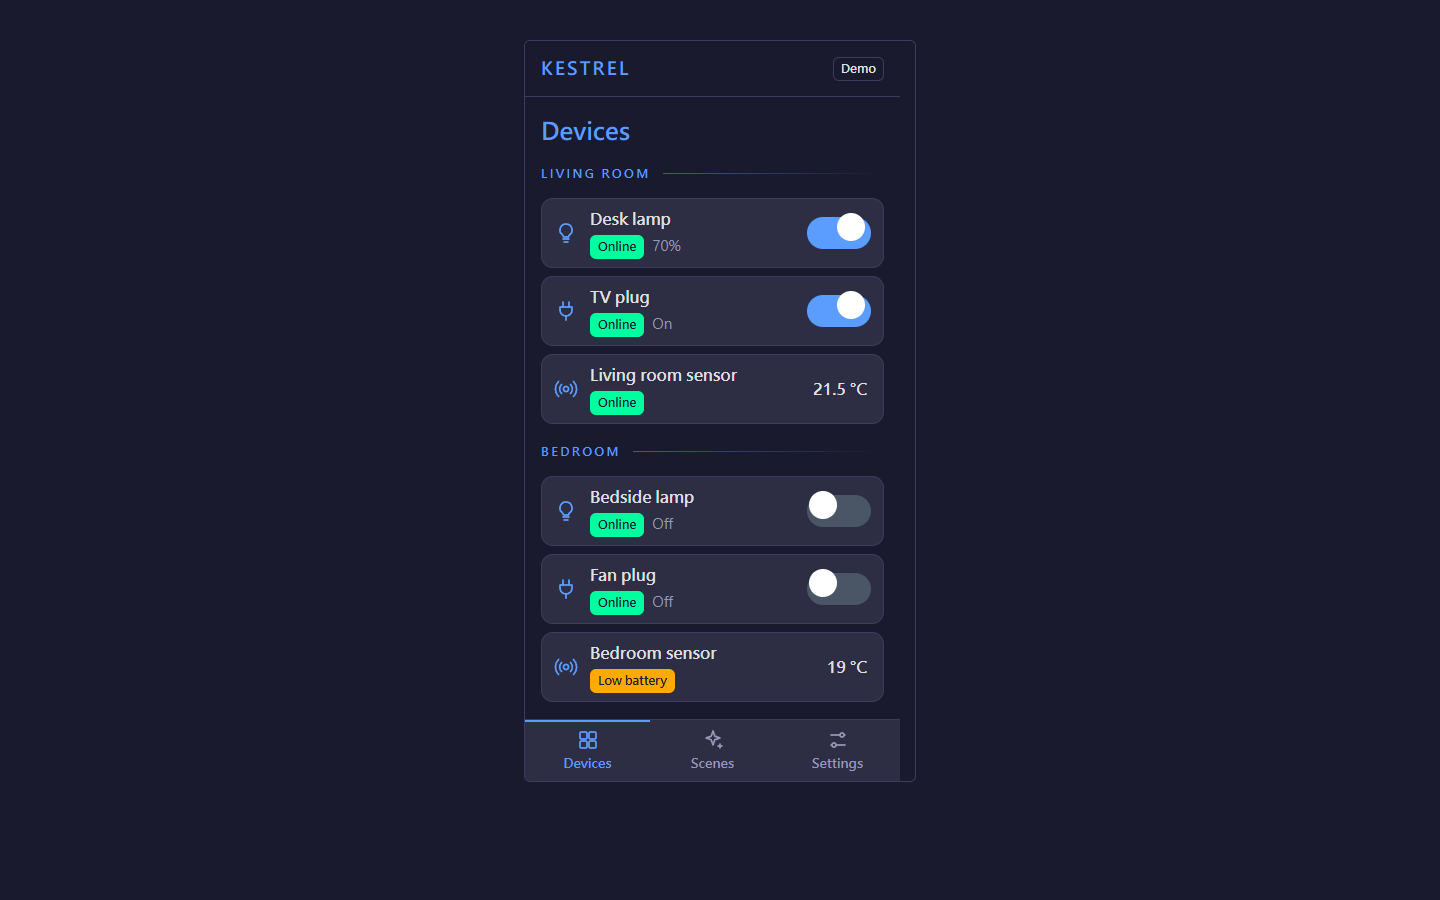
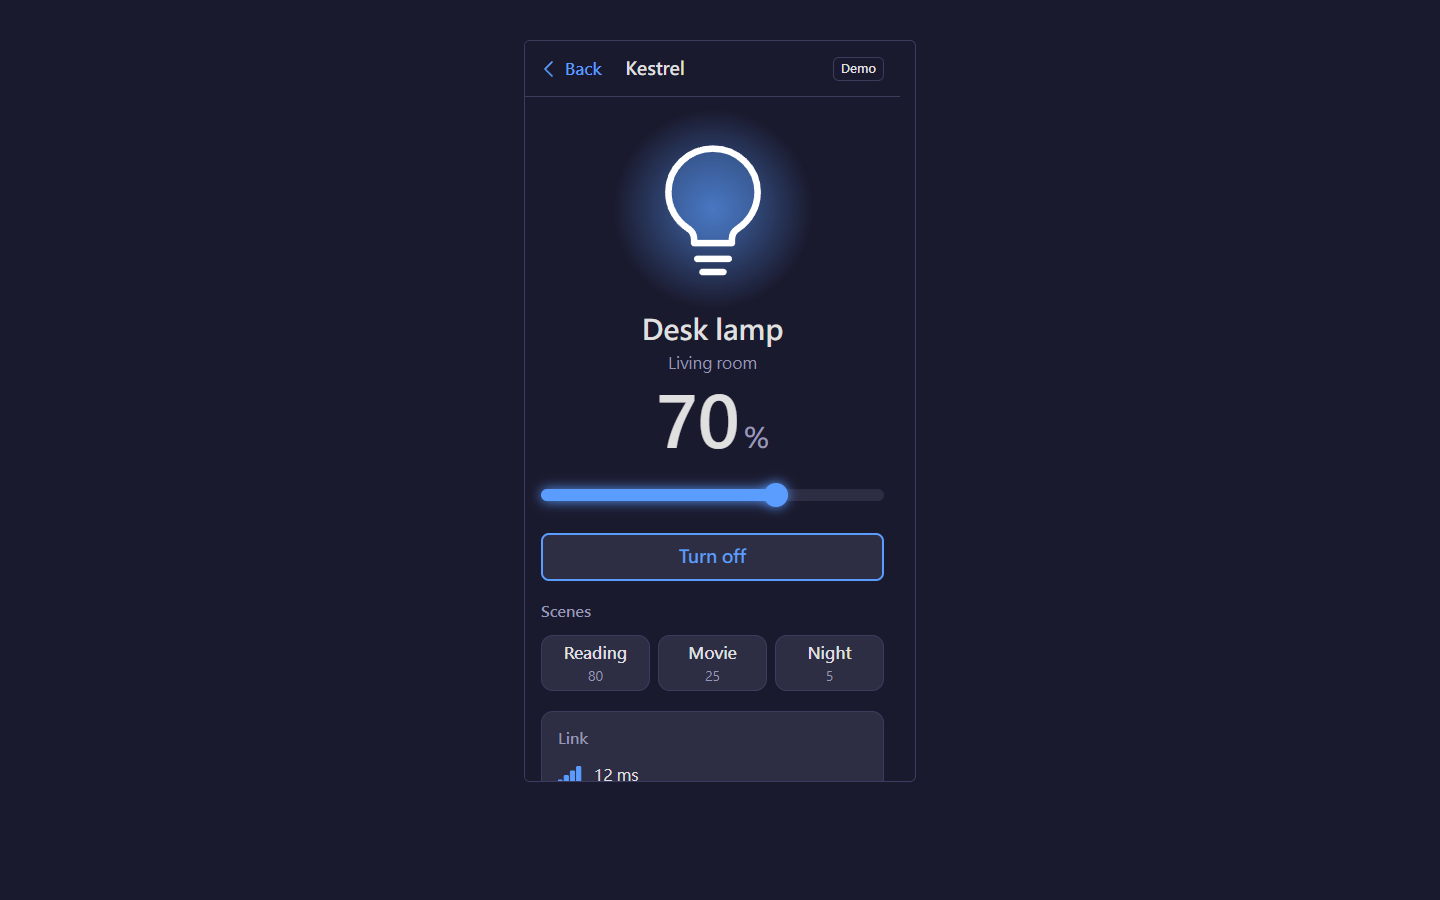
feat(site): the Mobile App's new tagline and copy, a new screenshot, and two new examples for the redesigned app

diff --git a/packages/site/src/content/templateContent.ts b/packages/site/src/content/templateContent.ts
@@ -156,41 +156,41 @@ export const TEMPLATE_CONTENT: Record<string, TemplateContent> = {
     useIf: [
       'a small control app people will use on their phone',
       'the front end of an app you will later connect to real devices or a backend',
-      'something with a list, switches, a form and a few settings',
+      'something with rooms, things you switch and dim, a connect flow and a few settings',
     ],
     headsUp:
       'This is a demo: the home and its devices are made up, and nothing is controlled or sent. You get the screens, not the hub. Your AI can help you connect yours.',
-    notFor: "if you need to talk to real devices or install it on a phone. The devices are made up, and it's a web page with no saved data.",
+    notFor: "if you need to find or talk to real devices, or install it on a phone. The devices and the scan are made up, and it's a web page with no saved data.",
     examples: [
       {
         title: 'A home-lab hobbyist',
         requests: [
-          'I just forked the Mobile App template (Kestrel, the home device controller). Before I change anything: get it running with npm and tell me how to open it on my phone over my home wifi, not just on my laptop. Also tell me plainly which parts are fake in this demo and which parts are real UI I can keep.',
-          "Replace the made-up devices with mine. I have 4 smart plugs (Shelly and Tasmota, I'll give you IPs) and a Raspberry Pi running a few services. Rename the devices, drop the ones I don't have, and change the scenes to things like 'Desk off', 'Everything off at night' and 'Lab on'. Keep the look and keep the switch on each row.",
-          "Now make the switches actually do something. When I flip a plug's switch it should call my plug (Tasmota has a plain HTTP command, Shelly has a local HTTP API). It should show the real on/off state when the app loads. If the plug doesn't answer, the switch should go back and show an error instead of pretending it worked.",
-          "The Add device form and the Settings screen currently don't save anything. Make Add device save to something that survives a reload (localStorage is fine for now), and make Settings remember my choices. If it's better to keep this on the Pi so my phone and laptop agree, tell me before you do it.",
-          "I want to run this on the Pi so I can open it from my phone any time, ideally as an icon on my home screen. Build it for production, serve it from the Pi, and walk me through starting it on boot. Tell me if I need to put any passwords or tokens somewhere and where they should go so they don't end up in the code.",
-          'Last thing: scenes. Make the one-tap scenes really switch the right group of plugs, and show me which ones worked and which failed.',
+          'I just forked this Mobile App template. Get it running locally and tell me the one command to start it. Then open README and the source and tell me plainly: which parts are real and which are made up? I want to turn this into a controller for my own stuff, so I need to know where the fake data lives.',
+          "I have 4 smart plugs at home plus a Raspberry Pi and a NAS that I want to power-cycle. The plugs are Shelly Plug S units on my LAN, and I also run Home Assistant. Replace the made-up Kestrel hub data with a small data layer I can swap out. Start with one adapter that talks to Home Assistant's REST API using a long-lived token I put in an env file, and keep the fake data as a fallback so the demo still works without a token. Don't touch the visuals yet.",
+          'Now make the on/off icon on Home actually call the plugs. It should flip right away on screen, then roll back and show an error if the call fails. Also make the page for each device show what the plug really reports (on or off, and power in watts if it has a meter) instead of the made-up signal figure. If a plug has no signal reading, hide that row rather than showing a fake number.',
+          "Take the light-only stuff out. I have no dimmers or thermostats. Remove the brightness slider, the three scenes and the target temperature, and keep Turn on / Turn off, power draw and a Remove button. Also rename 'Kestrel' to something of mine, and make the rooms be the ones I define in a config file: Rack, Office, Living room. The room power figure should be the sum of the watts of the plugs in it.",
+          "The 'add a device' scan flow can't really discover anything from a browser, right? Replace it with a simple form: pick an entity from the list Home Assistant gives you, give it a name, choose a room. Make Disconnect and Reconnect do something honest, or remove them if they can't. And save my rooms and names so they survive a reload.",
+          "Last thing: I want to open this on my phone while I'm on my home wifi. Tell me how to serve it on my LAN, how to add it to my home screen, and what I should NOT do with the token (I don't want it sitting in the JavaScript bundle that my phone downloads).",
         ],
         stuck:
-          "Message 3, the real wall: a web page running in my phone's browser can't just call a plug on my LAN the way I imagine. Browser security rules (CORS, and an https page blocking plain http calls) would make the calls fail, and the error message would be useless to me. I'd probably need a tiny proxy or server on the Pi … Message 3 again: Tasmota and Shelly differ, and some of my plugs may be cloud-only or need a password. I'd get stuck on where to put credentials and would be tempted to paste them in the chat or the source. … Message 5: Home-screen install and https. On my phone, \"add to home screen\" may just make a bookmark, and some phone features need https, which a Pi on my LAN doesn't have. I'd also get lost in the systemd/pm2 part.",
+          "The token. A Vite/React app puts anything in an env file into the browser bundle, so my Home Assistant token would end up on my phone and in the page source. I would not realise that until my AI warned me. I'd then need a tiny proxy on the Pi, and that is a second project. … Browser rules. If I serve the page over HTTPS, the browser may block calls to my plain-http plugs and Home Assistant (mixed content), and calling Home Assistant from another origin needs CORS set up on its side. I would lose an evening to errors that say nothing useful on a phone. … Keeping it up to date. The page only knows a plug's state when it was last asked, so if someone flips the plug at the wall, my phone shows the old state. I'd need polling or a live connection and I wouldn't know to ask for it. … Hosting it on the Pi and getting the \"add to home screen\" icon and full-screen look right. …",
         worked:
-          'I open the app on my phone over wifi, with the laptop closed, and it loads. … I tap the switch for my desk lamp plug and the lamp physically turns off, within a second or two. … I unplug a plug on purpose, flip its switch, and the app shows an error and goes back, instead of lying. … I restart the Pi and the app comes back on its own. …',
+          "I tap the icon on my phone … and I hear the relay click and see the lamp or fan on that plug go off. The icon only changes after the plug has really changed, or it rolls back with an error if I unplug the plug first. … I flip the plug at the wall (or from the Shelly app), and within a few seconds my phone shows the new state without me reloading. … The watts figure on a device page matches what the Shelly app shows for the same plug, and the Rack room total equals the plugs added up by hand. … I reload the page and my rooms, names and added devices are still there. … I unplug a plug on purpose and the app shows that plug as unreachable rather than still showing \"on\". … I open the page source on my phone's browser and search for my token. If it's not there, I'm happy. …",
       },
       {
         title: 'A designer',
         requests: [
-          "I just downloaded this template folder. I'm a designer, not an engineer. Please install whatever it needs and start it, then tell me exactly how to open it on my iPhone while I'm on the same wifi. Pretend I've never used a terminal.",
-          "Okay, it runs. It's a demo app called Kestrel. My client makes smart heating, not lights, so I need to rename it. Call the app 'Hearth' and change the device list to: Living room thermostat, Bedroom thermostat, Boiler, Hot water, Front door sensor. Rename the scenes to Morning, Away, Night. Keep it obviously fake data, I'm not claiming it controls anything. Show me which files you touched.",
-          "Now the look. The client's brand is a warm off-white background with a deep green and an orange accent, rounded and friendly, nothing cyberpunk. Can you change the colours, fonts and the glow/neon effects so it matches? Here are my hex values: #F5F1E8, #1F4D3A, #E8742A. Tell me where the colours live so I can tweak them myself later.",
-          'When I tap a thermostat, the bottom sheet should have a temperature control: big number, plus and minus buttons, and a mode picker (Heat, Eco, Off). Right now it has whatever the lights had. Please change that sheet for thermostats only and keep the on/off switch on the other rows.',
-          "On the Add device form, when I fill it in and press the button, I want the new device to actually show up in the list so the client sees it work. It's fine if it disappears when I refresh. Just make it clear in the UI, subtly, that it's a prototype.",
-          "Last thing: I need to send the client a link they can open on their own phone, without me running anything on my laptop. Put it online somewhere free and give me the link. Check it works at phone width and that refreshing a page doesn't break it.",
+          "I just downloaded this template, it's a phone-style web app called Kestrel. Please get it running on my machine and tell me the address to open. Then, in plain words and no code, list every screen it has and how you get from one to the next (Home, a device page, Rooms, adding a device, Settings). I want to check you and I are looking at the same app before I change anything.",
+          "My client's brand is Lumen, not Kestrel. Rename the app and the hub everywhere a person would see it. Then change the rooms to Living room, Kitchen, Studio and Bedroom. In each room put the devices I give you: Living room has a ceiling light and a thermostat, Kitchen has two lights and a smart plug, Studio has a desk lamp, Bedroom has a light and a blind. Keep the power figures on the Rooms screen looking sensible for those devices. Tell me which of these are made-up numbers and where they live, so I know where to edit them later.",
+          "On Home, the one sentence about how the home is doing: I want it to say something different depending on what's happening. For example 'Everything is calm' when it's all normal, and something else when a device is disconnected or when every light is off. Also show me what Home looks like when a room has no devices at all, I want an empty state with a friendly line. And make one device in the Kitchen show as disconnected, so I can show that state to the client.",
+          "On the light page, rename the three one-tap scenes to Reading, Movie and Night, and make Night dim the light to about 10 percent. I want the brightness slider to visibly move when I tap a scene. On the thermostat, I'd like the target to stop at 16 and 28 so the plus and minus can't run off into silly numbers.",
+          "Now the add-a-device flow. Change the scan so it finds a smart plug, a blind and a speaker, in that order, and make the 'name your device' step suggest a name based on what was picked, and a room to put it in. After I finish, the new device should show up on Home in that room. If that isn't possible in a demo, tell me honestly what it does instead.",
+          "Last thing, the look. The client's colour is a teal, about #1FB5A8. Make the glowing icons and the accents use that instead of whatever they use now, but keep the dark cyberpunk feel. Then give me a short list in plain words of everything you changed in this whole session, grouped by screen, and anything you decided without asking me.",
         ],
         stuck:
-          "Then the phone: a localhost address won't open on my phone, and I won't know why. I'd need the AI to hand me an address with numbers in it, and I'd be unsure whether my laptop's firewall or the office wifi is blocking it. That could eat the whole afternoon before a meeting. … Message 6: \"put it online\" means accounts, logins, and maybe an extra step the AI can't do for me. And a deployed site may break on a sub-path, or show a blank page. I wouldn't be able to debug that. I'd also worry about whether the link is public to everybody.",
+          "Showing it to the client. It runs on my laptop. The client will want it on their phone. I'd have to ask how to put it somewhere with a link, and I would not know what to call that.",
         worked:
-          "I open it on my own phone, in the real browser, with wifi on, and I can tap through every screen without pinching or sideways scrolling: device list, switch on a row, the sheet sliding up, scenes, the add form, settings. … The thermostat sheet shows the temperature and changing it changes the number on the screen. The add form puts a new device in the list. … The deployed link opens on a different phone (my partner's, off my wifi, not my laptop), and refreshing keeps me on the same screen instead of a 404. … Last check: I turn my laptop off, open the link on my phone over mobile data, and it still works. Then I'm ready for the meeting.",
+          "I open it in a phone-sized window and tap through every screen on my list from message 1. Each screen is there and each one looks like it belongs to Lumen, with no leftover Kestrel anywhere, including in Settings and the page title. … I can walk the whole story with my finger: Home, switch a light off with its icon, open the light page, tap Night, see the slider drop, go back, see the Home sentence change. If I can do that without the AI's help, it works. … I check the states I asked for, one by one: the disconnected kitchen device, the empty room, the thermostat stopping at 16 and 28, the scan finding the three devices in my order. … I look at it next to my own design file and the teal matches in the places I care about. … I read the AI's closing list and it matches what I see. If it tells me something changed and I can't find it on screen, or I find a change it never mentioned, I don't trust it and I go back. … Last, I send the link to my own phone and open it there. If it works there, I'm ready for the client …",
       },
     ],
   },

diff --git a/packages/site/src/content/templateContent.test.ts b/packages/site/src/content/templateContent.test.ts
@@ -43,7 +43,7 @@ describe('template content', () => {
     expect(content.useIf).toHaveLength(3);
     expect(content.headsUp).toMatch(/nothing is controlled or sent/);
     expect(content.headsUp).toMatch(/screens, not the hub/);
-    expect(content.examples.map((example) => example.title)).toEqual(['A home-lab hobbyist', 'A designer']);
+    expect(content.examples).toHaveLength(2);
     for (const example of content.examples) {
       expect(example.requests.length, example.title).toBeGreaterThanOrEqual(4);
       expect(example.requests.length, example.title).toBeLessThanOrEqual(6);
@@ -51,11 +51,30 @@ describe('template content', () => {
     }
   });
 
+  // The first version of the Mobile App had a bottom sheet, a pairing form and a Scenes tab. The
+  // two examples written for it said so, and the redesign has none of them: copy that still mentions
+  // them is stale. (The redesigned app does have scenes, but as the three one-tap presets on a
+  // light's own page, and the interview brief says so, so a person who asks to rename "the three
+  // one-tap scenes" on "the light page" is describing the redesigned app: "scenes" and "one-tap
+  // scenes" are not on this list. The tagline test above does reject "one-tap scenes", because
+  // in the tagline it was the first version's feature list.)
+  it('describes the redesigned mobile app everywhere, not the first one', () => {
+    const content = TEMPLATE_CONTENT['mobile-app']!;
+    const words = [...content.useIf, content.headsUp, content.notFor ?? '', ...content.examples.flatMap((e) => [e.title, ...e.requests, e.stuck, e.worked])].join('\n');
+    expect(words).not.toMatch(/bottom sheet|pairing form|Scenes tab|Add device form/i);
+  });
+
+  it("keeps the mobile app's examples to the owner's rules: no remark about the template or the demo in where they would get stuck, and labels that say they", () => {
+    for (const example of TEMPLATE_CONTENT['mobile-app']!.examples) {
+      expect(example.stuck, example.title).not.toMatch(/\b(the template|the demo|this template|the README|it is (all )?fake|it'?s (all )?fake|pretend)\b/i);
+    }
+  });
+
   it("describes each template's own limits in notFor, never another kind of app", () => {
     expect(TEMPLATE_CONTENT.monitoring!.notFor).toMatch(/live data/);
     expect(TEMPLATE_CONTENT['agent-panel']!.notFor).toMatch(/real model or login/);
     expect(TEMPLATE_CONTENT.landing!.notFor).toMatch(/several pages, a blog or a real signup backend/);
-    expect(TEMPLATE_CONTENT['mobile-app']!.notFor).toMatch(/real devices or install it on a phone/);
+    expect(TEMPLATE_CONTENT['mobile-app']!.notFor).toMatch(/find or talk to real devices, or install it on a phone/);
     for (const [slug, { notFor }] of Object.entries(TEMPLATE_CONTENT)) {
       expect(notFor ?? '', slug).not.toMatch(/landing page|dashboard|mobile app/i);
     }

diff --git a/packages/site/src/data/templates.test.ts b/packages/site/src/data/templates.test.ts
@@ -42,6 +42,14 @@ describe('templates', () => {
     expect(getTemplate('mobile-app')?.accentHex).toBe('#5b9cff');
   });
 
+  // The first version of the Mobile App had bottom navigation with a Scenes tab, a bottom sheet
+  // and a pairing form; the redesign has none of them, so a tagline that still says so is stale.
+  it('describes the redesigned mobile app, not the first one', () => {
+    const tagline = getTemplate('mobile-app')!.tagline;
+    expect(tagline).toMatch(/rooms/);
+    expect(tagline).not.toMatch(/one-tap scenes|pairing form|bottom sheet|bottom navigation/i);
+  });
+
   it('asks for the phone-sized preview frame only where the template is made for a phone', () => {
     expect(TEMPLATES.filter((item) => item.previewFrame === 'phone').map((item) => item.slug)).toEqual(['mobile-app']);
   });

diff --git a/packages/site/src/data/templates.ts b/packages/site/src/data/templates.ts
@@ -74,7 +74,7 @@ export const TEMPLATES: Template[] = [
   {
     slug: 'mobile-app',
     name: 'Mobile App',
-    tagline: 'A home device controller built for a phone: bottom navigation, on/off switches and sliders in a list, one-tap scenes and a pairing form.',
+    tagline: 'A home device controller built for a phone: rooms, a glowing glyph for every device, a full page to control each one and a scan-and-link flow to add more.',
     accentLabel: 'Blue',
     accentHex: '#5b9cff',
     screenshotSrc: './screenshots/mobile-app.png',

diff --git a/README.md b/README.md
@@ -11,7 +11,7 @@ The library: [npm](https://www.npmjs.com/package/cyberui-2045) · [GitHub](https
 | [AI Product Monitoring](packages/monitoring) | Request volume, latency percentiles, error rate, and a live alerts feed for a production AI API. |
 | [Agent Control Panel](packages/agent-panel) | A conversation, task queue, live status and reasoning trace for an AI assistant, with a human approval step. |
 | [Landing Page](packages/landing) | A hero, features, pricing with a working billing toggle, FAQ and a signup form for a product launch. |
-| [Mobile App](packages/mobile-app) | A home device controller built for a phone: bottom navigation, on/off switches and sliders in a list, one-tap scenes and a pairing form. |
+| [Mobile App](packages/mobile-app) | A home device controller built for a phone: rooms, a glowing glyph for every device, a full page to control each one and a scan-and-link flow to add more. |
 
 More are planned; follow [the open issues](https://github.com/patrickkuei/cyberui-templates/issues) to see what is next. The [site](https://patrickkuei.github.io/cyberui-templates/) has a live preview and a one-step start for each template that is ready.
 
